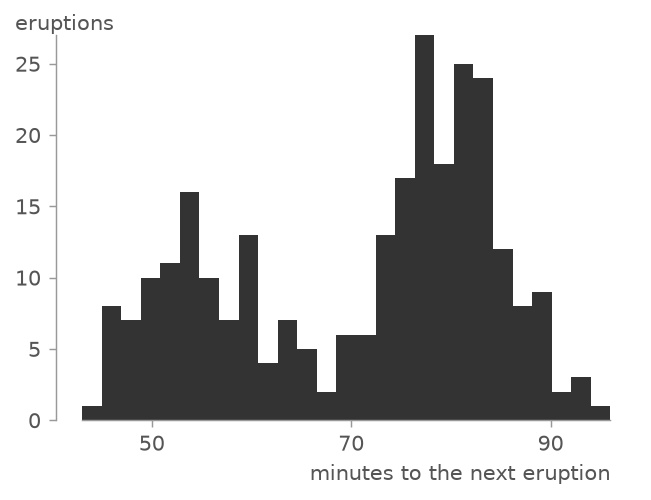
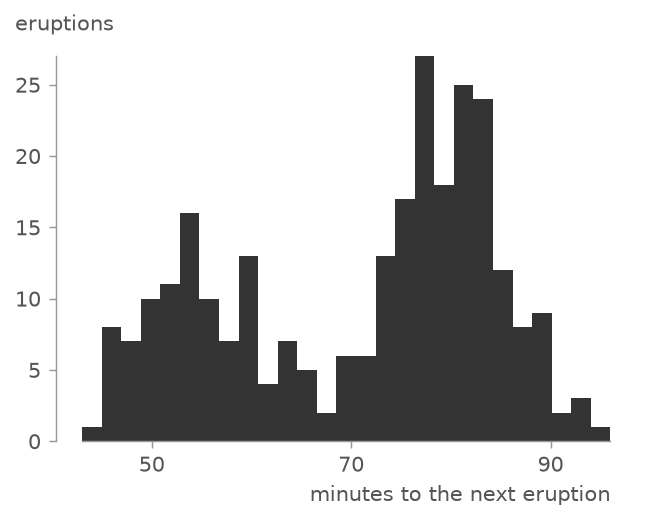
fix(labels): clear a data end that outruns the top tick
A 'data' end runs the spine to the data, which can sit above the
outermost tick; 'nice' and 'loose' both end on a tick, so the two
agreed there and the gap only showed under 'data'. Anchoring the
ylabel on the tick alone dropped it inside the frame, over the spine
and the marks beside it.

Both placements now take whichever of the top tick and the spine end
reaches higher, matching what the xlabel already did with its flush
anchor. Old Faithful and the waiting-times histogram are the two
gallery figures this moves.

Claude-Session: https://claude.ai/code/session_013FnxMLomMa2SCqyKwtDEmX

diff --git a/src/vanzelfsprekend/labels.py b/src/vanzelfsprekend/labels.py
@@ -243,7 +243,10 @@ def _apply_labels(ax: Axes) -> bool:
         if span is not None:
             locs = ax.yaxis.get_majorticklocs()
             top = _visible_high_tick(ax.yaxis)
-            if top is not None:
+            # A 'data' end runs the spine past the top tick, to the data.
+            # The label belongs at whichever the frame ends on; the tick
+            # label's own offset only applies when the tick is the end.
+            if top is not None and float(locs[top]) >= span[1]:
                 anchor = float(locs[top])
                 offset_px = _top_label_offset(ax, top)
             else:
@@ -314,9 +317,11 @@ def _place_ylabel_above(ax: Axes, above_text: Text) -> bool:
     """Stack the managed above-label over the top tick label, left aligned.
 
     Anchored on the topmost drawn tick label's measured left/top edge,
-    so it tracks the tick label's rendered width, and lifted clear of it by
-    `ax.yaxis.labelpad`. The above-label is a plain `transAxes` text
-    child, so a `set_position` sticks; nothing else moves it each draw.
+    so it tracks the tick label's rendered width, and lifted clear of it
+    by `ax.yaxis.labelpad`. A `'data'` end runs the spine past that tick,
+    so the lift clears whichever of the two reaches higher. The above-label
+    is a plain `transAxes` text child, so a `set_position` sticks; nothing
+    else moves it each draw.
     """
     labels = ax.yaxis.get_ticklabels()
     top = _visible_high_tick(ax.yaxis)
@@ -327,6 +332,10 @@ def _place_ylabel_above(ax: Axes, above_text: Text) -> bool:
     except RuntimeError:
         return False
     left, upper = ax.transAxes.inverted().transform((bbox.x0, bbox.y1))
+    span = _drawn_spine_span(ax, "y")
+    if span is not None:
+        vmin, vmax = ax.get_ylim()
+        upper = max(upper, _axes_fraction(ax.yaxis, span[1], vmin, vmax))
     gap = ax.yaxis.labelpad * ax.figure.dpi / 72.0 / ax.bbox.height
     target = (float(left), float(upper) + gap)
     pos = above_text.get_position()

diff --git a/tests/test_labels.py b/tests/test_labels.py
@@ -468,3 +468,44 @@ def test_flush_xlabel_skips_the_tick_the_pinned_view_crops():
     assert abs(label.x1 - right.x1) < 2
     assert ax.xaxis.label.get_position()[0] <= 1.0
     plt.close(fig)
+
+
+def _data_end_past_top_tick_ax():
+    """Axes whose `'data'` end runs the y spine past its topmost tick.
+
+    Old Faithful's shape: the data reaches 96 while the ticks stop at
+    90, so the spine's drawn end sits above every tick and a label
+    anchored on the tick alone lands inside the frame.
+    """
+    fig, ax = plt.subplots()
+    rng = np.random.default_rng(0)
+    ax.scatter(rng.uniform(1.6, 5.1, 200), rng.uniform(43, 96, 200), s=10)
+    vzs.range_frame(ax, frame="data")
+    return fig, ax
+
+
+def _spine_end_frac(ax):
+    lo, hi = ax.get_ylim()
+    return (ax.spines["left"].get_bounds()[1] - lo) / (hi - lo)
+
+
+def test_above_ylabel_clears_a_data_end_past_the_top_tick():
+    fig, ax = _data_end_past_top_tick_ax()
+    vzs.ylabel(ax, "minutes to the next")
+    fig.canvas.draw()
+    end = _spine_end_frac(ax)
+    ticks = ax.yaxis.get_majorticklocs()
+    lo, hi = ax.get_ylim()
+    assert (max(ticks) - lo) / (hi - lo) < end  # the spine outruns the ticks
+    label = vzs.labels._labels_state(ax)["ylabel_above_text"]
+    assert label.get_position()[1] > end
+    plt.close(fig)
+
+
+def test_beside_ylabel_clears_a_data_end_past_the_top_tick():
+    fig, ax = _data_end_past_top_tick_ax()
+    vzs.ylabel(ax, "minutes to the next", place="beside")
+    fig.canvas.draw()
+    end = _spine_end_frac(ax)
+    assert ax.yaxis.label.get_position()[1] == pytest.approx(end, abs=1e-4)
+    plt.close(fig)
